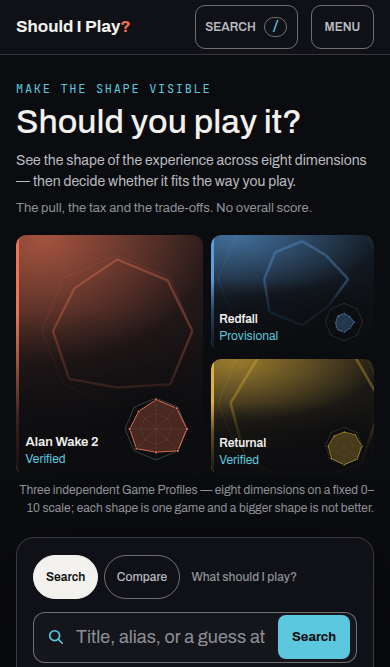
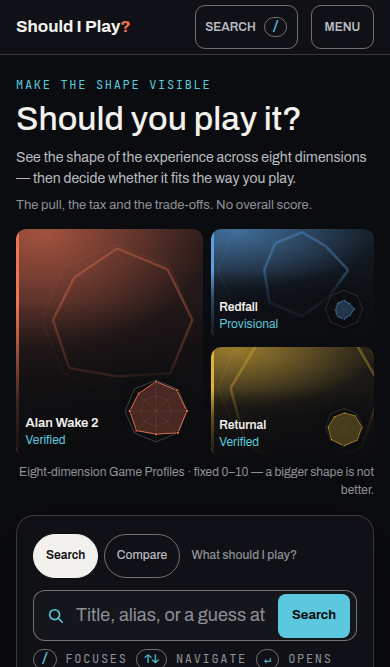
fix: keep the Search field inside 390x667 on the CI Chromium build
CI's Chromium wrapped the mosaic caption to three lines where the local
build wrapped it to two, which put the console's Search input 13px past
the 667px first viewport. Use A2's shorter caption at every width, drop the
pretty-wrap dependency, and trim the phone hero (228px mosaic, 1.4rem top
padding as A2) so the field keeps a margin in either build. Verified with
the same Chromium build CI installs: homepage, search, type-floor and
profile specs 123/123.

Claude-Session: https://claude.ai/code/session_01H9hxDm9nrLYf4oEz3ZFUFy

Changed region(s): [[0.0308, 0.1199, 0.9538, 1.0], [0.0308, 0.5697, 0.0615, 0.5997]]

diff --git a/components/home/home-opening.css b/components/home/home-opening.css
@@ -9,7 +9,7 @@
 
      - THE HERO IS COMPACT. The specimen's 420px mosaic is 360px here so the
        hero stays inside the handoff's ~27.5rem maximum (ADR 0030 owner
-       refinement); 250px on the phone, as A2. Content and zoom may make it
+       refinement); 228px on the phone against A2's 250. Content and zoom may make it
        taller; nothing is clipped to hold a specimen height.
      - AT 390×667 THE HEADER, THE WHOLE HERO AND THE SEARCH INPUT ARE ON SCREEN
        WITHOUT SCROLLING (matrix H-01). Artwork depth gives way first on a
@@ -37,10 +37,10 @@
   width: 100%;
   max-width: var(--size-content-max);
   margin: 0 auto;
-  padding: var(--space-6) var(--size-gutter-mobile) 0;
+  padding: 1.4rem var(--size-gutter-mobile) 0;
   display: grid;
   grid-template-columns: minmax(0, 1fr);
-  gap: var(--space-4);
+  gap: var(--space-3);
   align-items: start;
 }
 
@@ -122,13 +122,15 @@
 }
 
 /* One game at scale in the left column, two stacked beside it — the same
-   grammar at every width, 250px tall on the phone and 360px on the desktop. */
+   grammar at every width, 228px tall on the phone (250 on A2, trimmed with the
+   same owner refinement that shortens the desktop hero) and 360px on the
+   desktop. */
 .sip-open__tiles {
   display: grid;
   grid-template-columns: 1.15fr 1fr;
   grid-template-rows: 1fr 1fr;
   gap: 0.5rem;
-  height: 15rem;
+  height: 14.25rem;
   margin: 0;
   padding: 0;
   list-style: none;
@@ -137,7 +139,7 @@
 /* A short phone: artwork depth gives way first (handoff §3.4). */
 @media (max-height: 40rem) {
   .sip-open__tiles {
-    height: 13rem;
+    height: 12.5rem;
   }
 }
 
@@ -395,13 +397,15 @@
   }
 }
 
+/* No `text-wrap: pretty` here: Chromium builds differ in how many lines it
+   spends avoiding an orphan, and one extra line at 390×667 is the Search
+   field leaving the first viewport. Plain wrapping is deterministic. */
 .sip-open__caption {
   margin: 0.4rem 0 0;
   font-size: var(--text-minimum);
   line-height: var(--leading-body);
   color: var(--color-text-quiet);
   text-align: right;
-  text-wrap: pretty;
 }
 
 /* Preview-only: the rights notice for review-clearance artwork, after the
@@ -425,7 +429,7 @@
   width: 100%;
   max-width: var(--size-content-max);
   margin: 0 auto;
-  padding: 1.2rem var(--size-gutter-mobile) var(--space-6);
+  padding: 1rem var(--size-gutter-mobile) var(--space-6);
 }
 
 @media (min-width: 40rem) {

diff --git a/components/home/HomeOpening.tsx b/components/home/HomeOpening.tsx
@@ -191,11 +191,11 @@ function Mosaic({ featured }: { featured: readonly ProfileView[] }) {
       </ul>
 
       <p className="sip-open__caption">
-        {featured.length === 1
-          ? "One published Game Profile"
-          : `${featured.length === 3 ? "Three" : featured.length} independent Game Profiles`}{" "}
-        — eight dimensions on a fixed 0–10 scale; each shape is one game and a
-        bigger shape is not better.
+        {/* A2's caption, at every width: short enough to hold two lines at
+            390 in any Chromium build, which is what keeps the console's
+            field inside a 667px first viewport. */}
+        Eight-dimension Game Profiles · fixed 0–10 — a bigger shape is not
+        better.
       </p>
     </div>
   );

diff --git a/docs/design/Should_I_Play_Deliberate_Drift_Log.md b/docs/design/Should_I_Play_Deliberate_Drift_Log.md
@@ -137,7 +137,7 @@ not publication truth and were not copied.
 | F-01 | Opening, structure | A1/A2 hero + console | The opening is now the accepted two-part composition: a hero (proposition beside a fixed-width mosaic on desktop; proposition above it on the phone) followed by a full-width console panel carrying the journey pills and the Search field. Slices 1–2 had set Search and the journey labels inside the left hero column, with the mosaic beside them | Faithfulness. The accepted A1/A2 place Search in a panel under the hero on both frames; ADR 0030 "without an introductory scroll" and the handoff's "header + hero + at least 12rem of the Search region" arithmetic describe exactly that order | `components/home/HomeOpening.tsx`; `home-opening.css`; `tests/e2e/homepage.spec.ts` "puts the console after the hero in the focus order" | Claude / 2026-09-02 | none |
 | F-02 | Opening, journey switcher | A1/A2 `role="tablist"` pills; handoff §5.2 | Search / Compare / What should I play? are pills in the console — Search filled, Compare outlined and a real link, What should I play? quiet text without a boundary — with the Search field directly beneath as the selected panel. Still a marked list, not an ARIA tablist (B-07 carried) | Faithfulness to the accepted pill grammar; B-07's reason still holds (no colocated region is switched, so a tab that did nothing would misdescribe the product). The unbuilt journey is deliberately not drawn as a control | `HomeOpening.tsx` `Journeys`; `tests/e2e/search.spec.ts` "leads with the question"; `homepage.spec.ts` "puts the Search field directly under a switcher that has Search selected" | Claude / 2026-09-02 | becomes a tablist when a second journey has a panel |
 | F-03 | Opening, Search action | A1/A2 cyan "Search" action in the well | The inline field carries the accepted cyan Search button. It does what Enter does — opens the highlighted row, else the query's one exact match — and otherwise returns focus to the field; it never navigates on a guess. Its accessible name is "Search the guide" so the header's "Search" opener stays unique | Faithfulness; ADR 0031 (no navigation on a guess) | `components/search/SearchField.tsx`; `search.css` `.sip-search__submit` | Claude / 2026-09-02 | none |
-| F-04 | Opening, mosaic geometry | A1 560×420, `1.15fr 1fr` × `1fr 1fr`; A2 390-wide × 250 | The same geometry at every width: one game spanning both rows of the left column, two stacked beside it. Desktop height is 360px rather than 420 | ADR 0030 owner refinement (section A): the hero is modestly shorter so Search gains prominence; 360 keeps the hero, with its caption, inside the handoff's ~27.5rem | `home-opening.css` `.sip-open__tiles`; `homepage.spec.ts` "keeps the accepted mosaic geometry" and "keeps the desktop hero inside its 27.5rem maximum" | Claude / 2026-09-02 | none |
+| F-04 | Opening, mosaic geometry | A1 560×420, `1.15fr 1fr` × `1fr 1fr`; A2 390-wide × 250 | The same geometry at every width: one game spanning both rows of the left column, two stacked beside it. Desktop height is 360px rather than 420; phone height is 228px rather than 250, and the mosaic caption uses A2's shorter sentence at every width | ADR 0030 owner refinement (section A): the hero is modestly shorter so Search gains prominence; 360 keeps the hero, with its caption, inside the handoff's ~27.5rem, and 228 with the two-line caption keeps the Search input inside 390×667 in every Chromium build CI runs (the longer A1 caption wrapped to three lines on the CI browser and pushed the field 13px past the fold) | `home-opening.css` `.sip-open__tiles`; `homepage.spec.ts` "keeps the accepted mosaic geometry" and "keeps the desktop hero inside its 27.5rem maximum" | Claude / 2026-09-02 | none |
 | F-05 | Opening, fingerprints | A1 148px lead / 96px small; A2 76px / 46px; handoff §7.1 "72px desktop and 64px mobile targets" | Integrated in the plate beside the words, as the specimen composes them: 120px lead / 96px small on desktop, 76px / 46px on the phone | The accepted composition ("hero radars integrated into their tiles and substantially larger", Rev 5 changelog) is owned by ADR 0030; the handoff's 72/64 targets describe the compact rail level, which the poster mark keeps. The lead fingerprint is trimmed from 148 to 120 so the published one-line experience — three times the specimen's length — keeps a readable column. All are decorative (`aria-hidden`); the shape is stated in text in every tile | `home-opening.css` `.sip-open__fingerprint` | Claude / 2026-09-02 | owner may prefer the full 148px lead fingerprint |
 | F-06 | Opening, tile copy | A1/A2 tile plates | Title, one-line experience (lead tile, desktop only) and evidence status; no commitment band; the "Game Profile · 8 dimensions · 0–10" cue is carried once by the caption under the mosaic | Content truth (no approved commitment record — ADR 0032, handoff §4.3) and responsive stress: the published one-liners filled a 190px phone tile. The sentence is one click away and in the rail's preview | `HomeOpening.tsx` `Tile`; `tests/e2e/search.spec.ts` "shows three profiles, each with a text equivalent of its shape" | Claude / 2026-09-02 | none |
 | F-07 | Opening and poster rail, artless territory | A1/A2 sleeves (spine + uppercase title); handoff §4.2, §8.1; E-10 | Every artless tile and poster paints the game's own eight-axis outline faint and large across its accent wash (`ShapeFragment`), under any artwork, with the fingerprint in its corner; the specimen's tiny uppercase sleeve title is not reproduced (the title is set once, in the plate) | Art-led/artless parity with the grammar the Compare territory already uses, so one game is recognisably itself in all three places; a second title inside the frame at 10px would break the 12px floor | `components/home/ShapeFragment.tsx`; `.sip-open__fragment`; `.sip-poster__fragment` | Claude / 2026-09-02 | none. B-09 (no cleared artwork) is unchanged |
